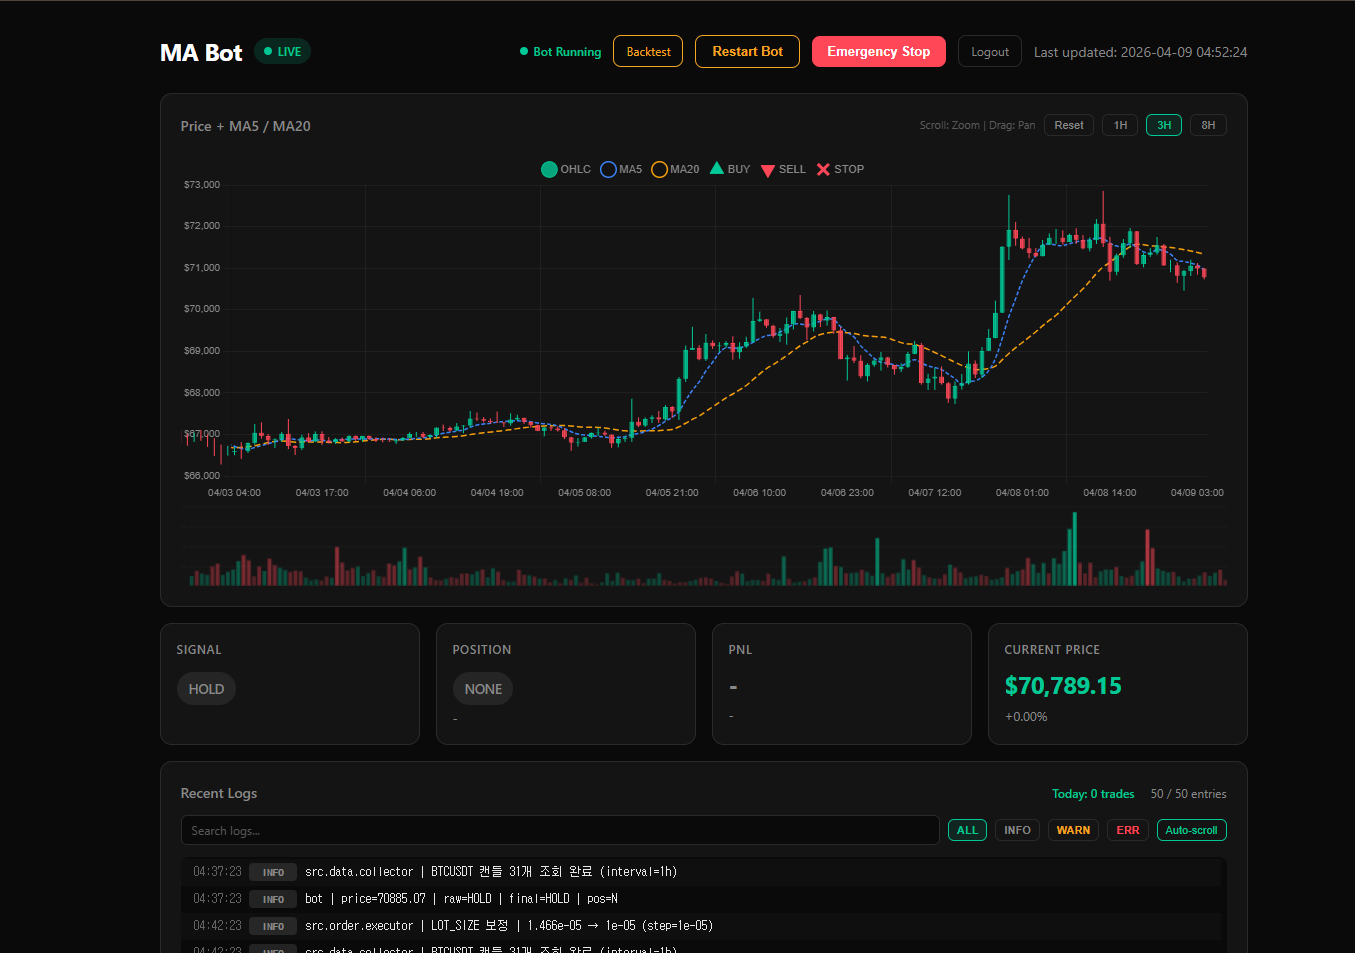
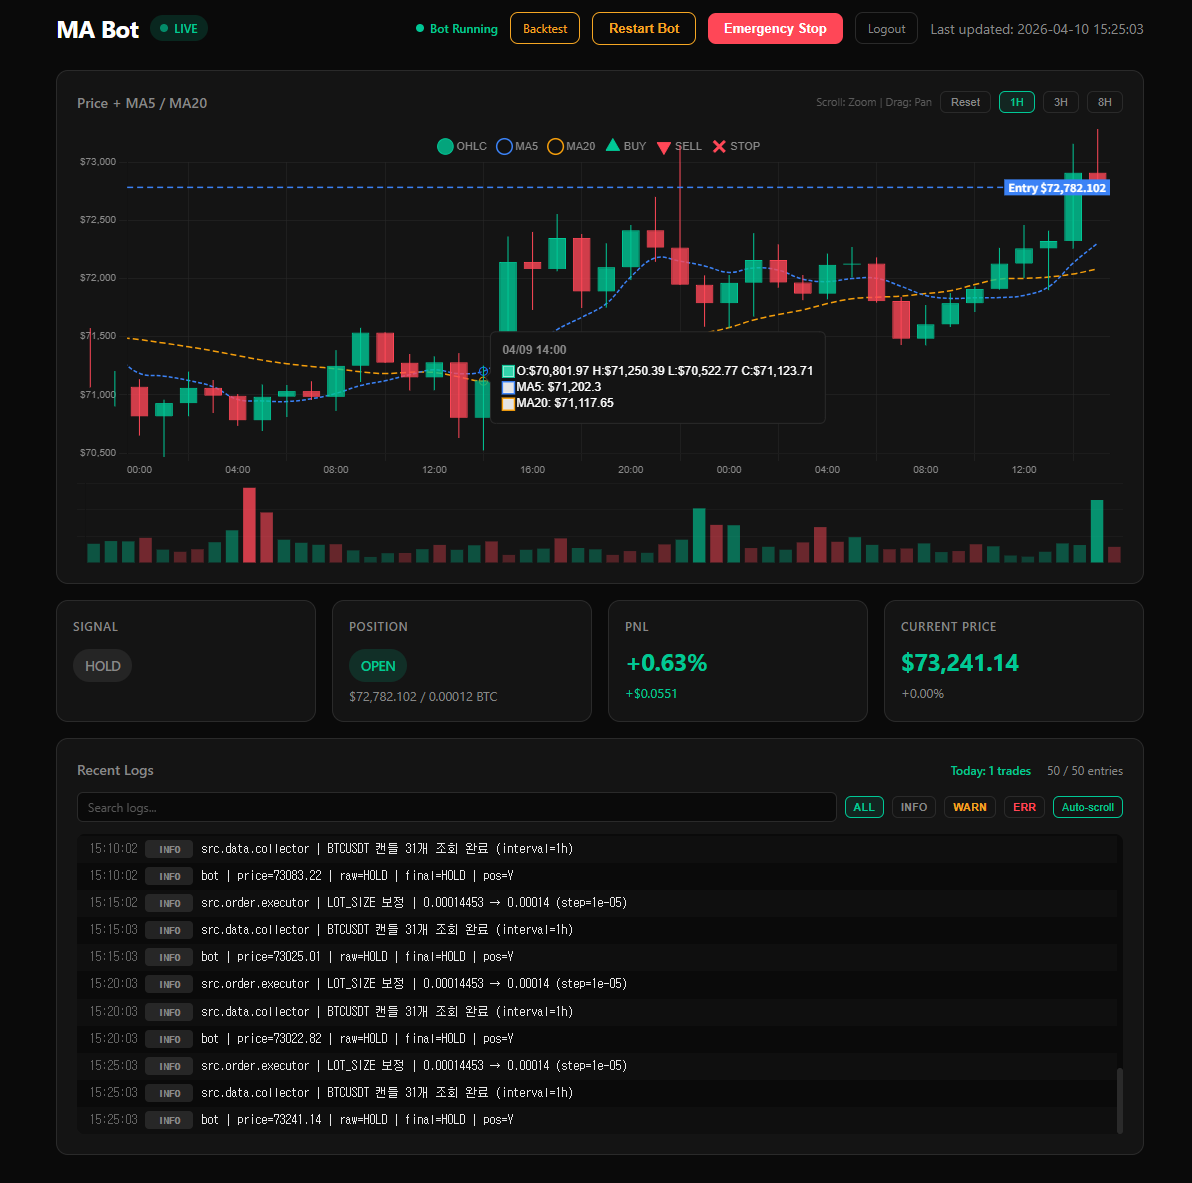
프로젝트 모달 문구 팩트체크 및 카드 이미지 위치 수정
- EPUB: 1인 개발로 표현 통일, 멘토 조언 회고에 추가
- EPUB: DRM/GitHub Actions/EXE 설명 실제 구조에 맞게 수정
- MA Bot: 소개 문구 수정, 유닛 테스트 항목 정리
- MA Bot: 스크린샷 최신 이미지로 교체
- 카드 이미지: object-top 적용, 오버레이 밝기 조정

diff --git a/components/projects-section.tsx b/components/projects-section.tsx
@@ -11,50 +11,51 @@ const projects = [
     description: "팀장으로 기획·프론트엔드 전담한 카드 스와이프형 TIL 블로그 플랫폼",
     fullDescription: "기존 블로그의 무거운 줄글 방식에서 벗어나, 숏폼·스낵 컬처에 맞는 카드 스와이프형 TIL 블로그 플랫폼. 텍스트보다 비주얼 중심의 콘텐츠 탐색 UX를 구현했습니다.",
     achievements: [
-      "팀장으로서 전체 일정 조율, 프론트엔드 아키텍처 설계 및 구현 총괄",
+      "팀장으로서 전체 일정 조율 및 개발 환경 구성",
+      "프론트엔드 아키텍처 설계 및 구현",
       "TipTap 에디터 도입 — Drag & Drop, 이미지 확대/축소/이동 기능 구현",
       "좌우 Swipe 기반 Short-form Viewer 직접 기획 및 구현",
-      "관심사 기반 태그 개인화 큐레이션, 반응형 모바일 최적화",
-      "AWS 배포까지 완료, 전체 달성도 85%"
+      "반응형 모바일 최적화",
+      
     ],
-    tech: ["React", "Vite", "JavaScript", "HTML/CSS", "TipTap", "Swiper.js", "Context API", "Axios", "AWS", "Spring"],
+    tech: ["React", "Vite", "JavaScript", "HTML/CSS", "TipTap", "Swiper.js", "Context API", "Axios", "Spring"],
     github: "https://github.com",
     demo: "",
-    role: "팀장 / 프론트엔드 리드 | 3인 팀 프로젝트",
+    role: "팀장 / 프론트엔드 전담 | 3인 팀 프로젝트",
     period: "2025.10 - 2025.12",
     images: { pc: "/pc_plog.png", mobile: "/mobile_plog.png" }
   },
   {
     title: "EPUB 마이그레이션 툴",
-    description: "수작업 EPUB 업무를 Python 툴로 해결. 기획부터 EXE 납품까지 단독 완주.",
-    fullDescription: "IT혁신본부 프론트엔드팀 소속 인턴으로, 코드를 다룰 줄 모르는 컨텐츠 개발팀이 수백 권의 EPUB 전자책을 일일이 수작업으로 수정하거나 외부 인력에 의존하던 문제를 발견했습니다. Chrome 86+ 보안 정책 변경으로 레거시 JavaScript가 일괄 동작 불가 상태가 된 것이 발단이었고, 이를 해결하기 위해 기획부터 배포까지 단독으로 진행했습니다.\n컨텐츠 개발팀과 직접 미팅을 진행하며 실무 환경과 사용 방식을 파악하고, \"pip도 모르는 담당자가 혼자 쓸 수 있어야 한다\"는 피드백을 수렴해 설치 없이 실행되는 EXE 형태로 최종 납품했습니다.",
+    description: "수작업 EPUB 업무를 Python 툴로 해결. 기획부터 EXE 납품·인수인계까지 주도적으로 진행.",
+    fullDescription: "IT혁신본부 프론트엔드팀 소속 인턴으로, 코드를 다룰 줄 모르는 컨텐츠 개발팀이 수백 권의 EPUB 전자책을 일일이 수작업으로 수정하거나 외부 인력에 의존하던 문제를 발견했습니다. Chrome 86+ 보안 정책 변경으로 레거시 JavaScript가 일괄 동작 불가 상태가 된 것이 발단이었고, 이를 해결하기 위해 기획부터 배포까지 진행했습니다.\n컨텐츠 개발팀과 직접 미팅을 진행하며 실무 환경과 사용 방식을 파악하고, \"코드를 모르는 담당자가 혼자 쓸 수 있어야 한다\"는 피드백을 수렴해 설치 없이 실행되는 EXE 형태와 편의성을 고려한 최종품을 납품했습니다.",
     achievements: [
-      "수시간 걸리던 수작업을 파일 드래그만으로 수분 내 처리 가능하도록 자동화",
-      "비개발자 담당자가 단독 운영할 수 있는 수준으로 인수인계 완료, 인턴 종료 후 팀 내 지속 운영 중",
-      "PC에서 직접 복호화가 불가능한 ARM 전용 DRM 구조를 ADB 브릿지 아키텍처로 우회 해결",
-      "Python 서버 3개 + ADB + APK를 단일 EXE로 패키징, 설치 없이 바로 실행",
-      "GitHub Actions CI/CD 구축 — 태그 push 한 번으로 자동 빌드·배포",
+      "수시간 걸리던 수작업을 손 쉽게 처리 가능하도록 자동화 도구 개발",
+      "비개발자 담당자가 단독 운영할 수 있는 수준으로 최종 결과물 납품 및 인수인계까지 마무리",
+      "태블릿에서만 동작하는 DRM 해제 APK를 ADB로 PC와 연결해 자동화 파이프라인 구성",
+      "Python 서버 + ADB + APK를 단일 EXE로 패키징, 설치 없이 바로 실행",
+      "GitHub Actions CI/CD 구축 경험 — 이후 사내 클라우드 배포로 전환",
       "Groq AI(LLaMA) 연동 오타 검증, WebP 이미지 최적화까지 단일 툴에 통합",
-      "컨텐츠 개발팀과 미팅을 통해 요구사항을 직접 수렴하고 피드백을 즉시 반영"
+      "컨텐츠 개발팀과 미팅을 여러차례 진행해 요구사항을 직접 수렴하고 피드백을 반영"
     ],
     tech: ["Python", "Flask", "JavaScript", "HTML/CSS", "Tailwind CSS", "PyInstaller", "GitHub Actions", "Android ADB", "Groq API"],
     github: "https://github.com",
     demo: "",
-    role: "단독 개발 | 웅진씽크빅 인턴",
+    role: "1인 개발 | 웅진씽크빅 인턴",
     period: "2026.01 - 2026.03",
-    retrospective: "기획·개발·배포를 혼자 2개월 만에 끝냈습니다. AI 도구를 적극 활용했지만, 실제로 동작하게 만드는 디버깅·설계·판단은 제가 했습니다. \"AI가 코드를 주는 것\"과 \"완성된 도구를 납품하는 것\"의 차이를 실감한 프로젝트입니다."
+    retrospective: "모르는 부분은 멘토분들과 팀장님께 조언을 구해가며 진행했고, 기획·개발·배포를 2개월 만에 완주했습니다. AI 도구를 적극 활용했지만, 실제로 동작하게 만드는 디버깅·설계·판단은 제가 했습니다. \"AI가 코드를 주는 것\"과 \"완성된 도구를 납품하는 것\"의 차이를 실감한 프로젝트입니다."
   },
   {
     title: "Binance MA Cross 자동매매 봇",
     description: "이동평균 전략 자동매매 봇과 실시간 모니터링 대시보드. 24시간 운용 중.",
-    fullDescription: "바이낸스 거래소 API를 연동한 암호화폐 현물 자동매매 시스템입니다. 이동평균 크로스(MA Cross) 전략으로 매수·매도 신호를 자동 생성하고, 운용 현황을 실시간으로 확인할 수 있는 웹 모니터링 대시보드를 직접 설계·구현했습니다. Oracle Cloud 서버에 배포하여 24시간 무중단으로 운용 중입니다.",
+    fullDescription: "실생활 자동화에 관심이 생겨 시작한 개인 프로젝트입니다.\n바이낸스 거래소 API를 연동한 암호화폐 현물 자동매매 시스템입니다. 이동평균 크로스(MA Cross) 전략으로 매수·매도 신호를 자동 생성하고, 운용 현황을 실시간으로 확인할 수 있는 웹 모니터링 대시보드를 직접 설계·구현했습니다. Oracle Cloud 서버에 배포하여 24시간 무중단으로 운용 중입니다.",
     achievements: [
       "실시간 모니터링 대시보드 구현 — Fetch API + setInterval 폴링으로 가격·포지션·수익률·로그를 한 화면에서 실시간 갱신",
       "Chart.js 기반 캔들 차트 — zoom/pan 플러그인 적용, 최근 200개 캔들 인터랙티브 시각화",
       "로그 뷰어 UX 개선 — 레벨별(INFO/WARN/ERR) 필터, 키워드 검색, 매수·매도 색상 구분, 스마트 자동 스크롤",
       "반응형 레이아웃 — CSS Grid + Custom Properties 기반, 모바일~데스크탑 대응",
-      "보안 처리 — 로그인 세션 인증, 브루트포스 방어(5회 실패 시 잠금), 긴급 정지 API 인증",
-      "113개 유닛 테스트 전체 통과 유지, GitHub 커밋 50회 이상"
+      "로그인 세션 인증, 브루트포스 방어(5회 실패 시 잠금), 긴급 정지 API 인증",
+      "핵심 매매 로직 유닛 테스트 113개 전체 통과 유지"
     ],
     tech: ["Python", "Flask", "HTML5", "CSS3", "JavaScript", "Chart.js", "pytest", "Oracle Cloud", "systemd"],
     github: "https://github.com",
@@ -369,9 +370,9 @@ export function ProjectsSection() {
                         src={(project as Project).images!.pc}
                         alt={project.title}
                         fill
-                        className="object-cover object-left-top"
+                        className="object-cover object-top"
                       />
-                      <div className="absolute inset-0 bg-background/25" />
+                      <div className="absolute inset-0 bg-background/10" />
                     </>
                   ) : project.title === "EPUB 마이그레이션 툴" ? (
                     <EpubThumbnail showFeatures={false} />
